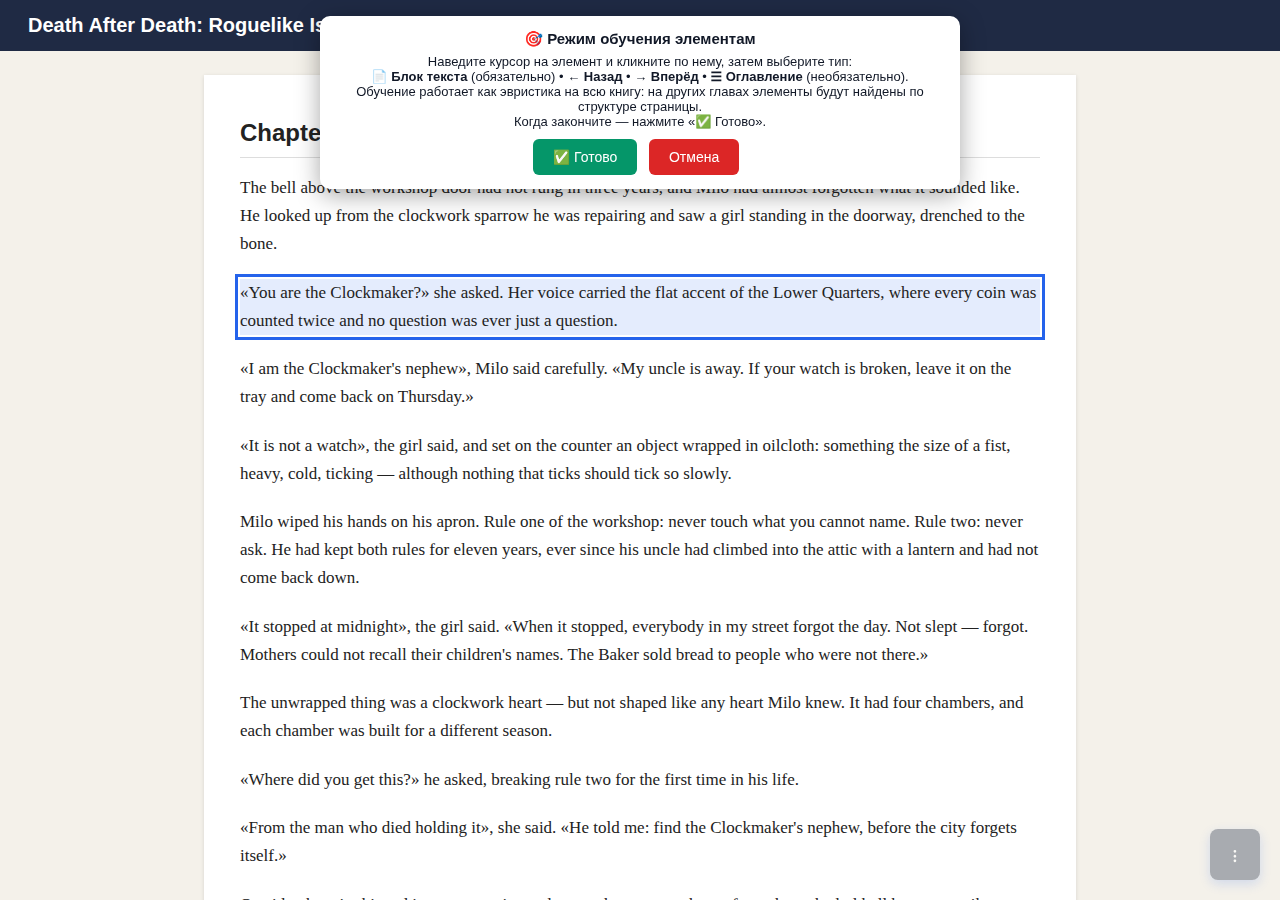
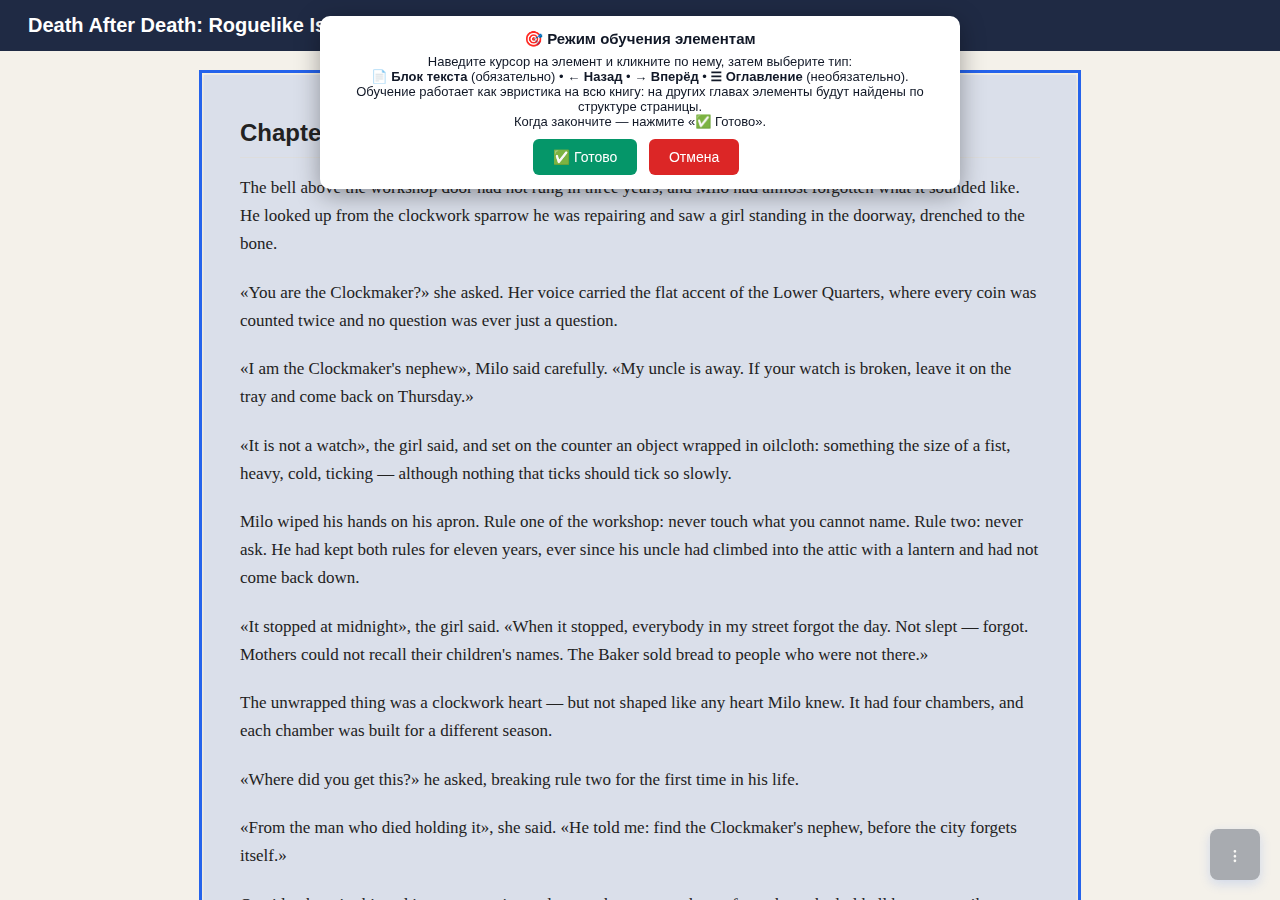
docs(tools): README Lite — скрин обучения на весь блок, примеры из дефолтов
На скрине обучения подсвечен контейнер текста целиком, а не один абзац — так понятнее, что блок выбирается весь. Подпись уточнена: «Текст, навигация и оглавление размечены». Примеры API Host и модели в «Первом запуске» теперь совпадают с дефолтами скрипта (routerai.ru, google/gemma-4-31b-it).

diff --git a/tools/NovelMaestro_Lite/README.md b/tools/NovelMaestro_Lite/README.md
@@ -30,7 +30,7 @@
 | --- | --- |
 | ![Настройки API и проверка сервера](assets/03-settings-check.png) | ![Определение книги](assets/04-book-modal.png) |
 
-| Обучение: показали странице, где текст и кнопки | Текст, «вперёд» и оглавление размечены |
+| Обучение: показали странице, где текст и кнопки | Текст, навигация и оглавление размечены |
 | --- | --- |
 | ![Обучение элементов](assets/05-training.png) | ![Роли обучены](assets/06-training-roles.png) |
 
@@ -62,9 +62,9 @@
 ## Первый запуск
 
 1. Нажмите **⋮ → Настройки** и заполните три поля:
-   - **API Host** — адрес провайдера, например `https://api.openai.com/v1`;
+   - **API Host** — адрес провайдера, например `https://routerai.ru/api/v1`;
    - **API Key** — ваш ключ из личного кабинета (для локальной модели вроде Ollama ключ не нужен — включите «Локальная модель без API-ключа»);
-   - **Модель** — её имя, например `gpt-4o-mini`.
+   - **Модель** — её имя, например `google/gemma-4-31b-it`.
 2. Нажмите **🔌 Проверить сервер** — должно появиться «✅ Сервер доступен».
 3. Откройте главу новеллы и нажмите **⋮ → 🌐 Перевести / читать**.
 4. Подтвердите «Определение книги» (адрес подставится сам), затем скрипт попросит **показать страницу**: кликните по блоку основного текста главы — и, если хотите, по кнопкам «вперёд/назад» и оглавлению (на телефоне — двойной тап). После «✅ Готово» перевод начнётся сам.
